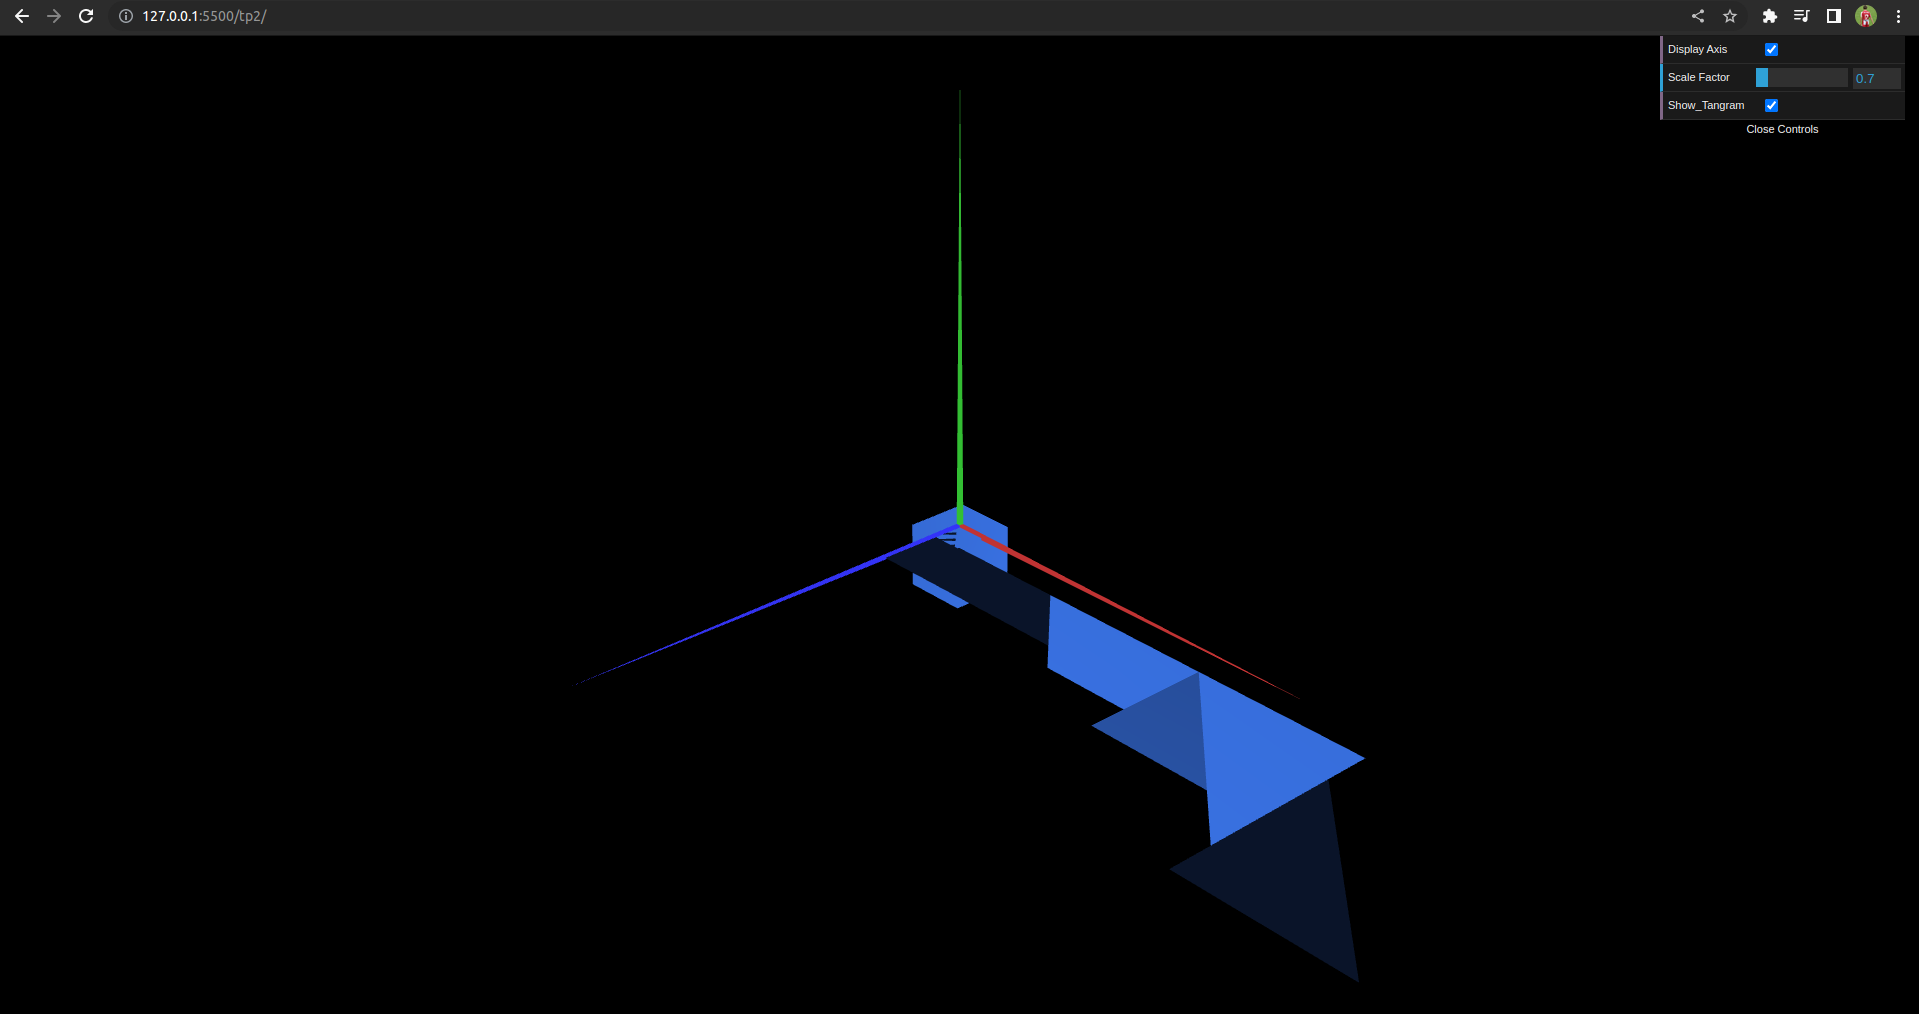
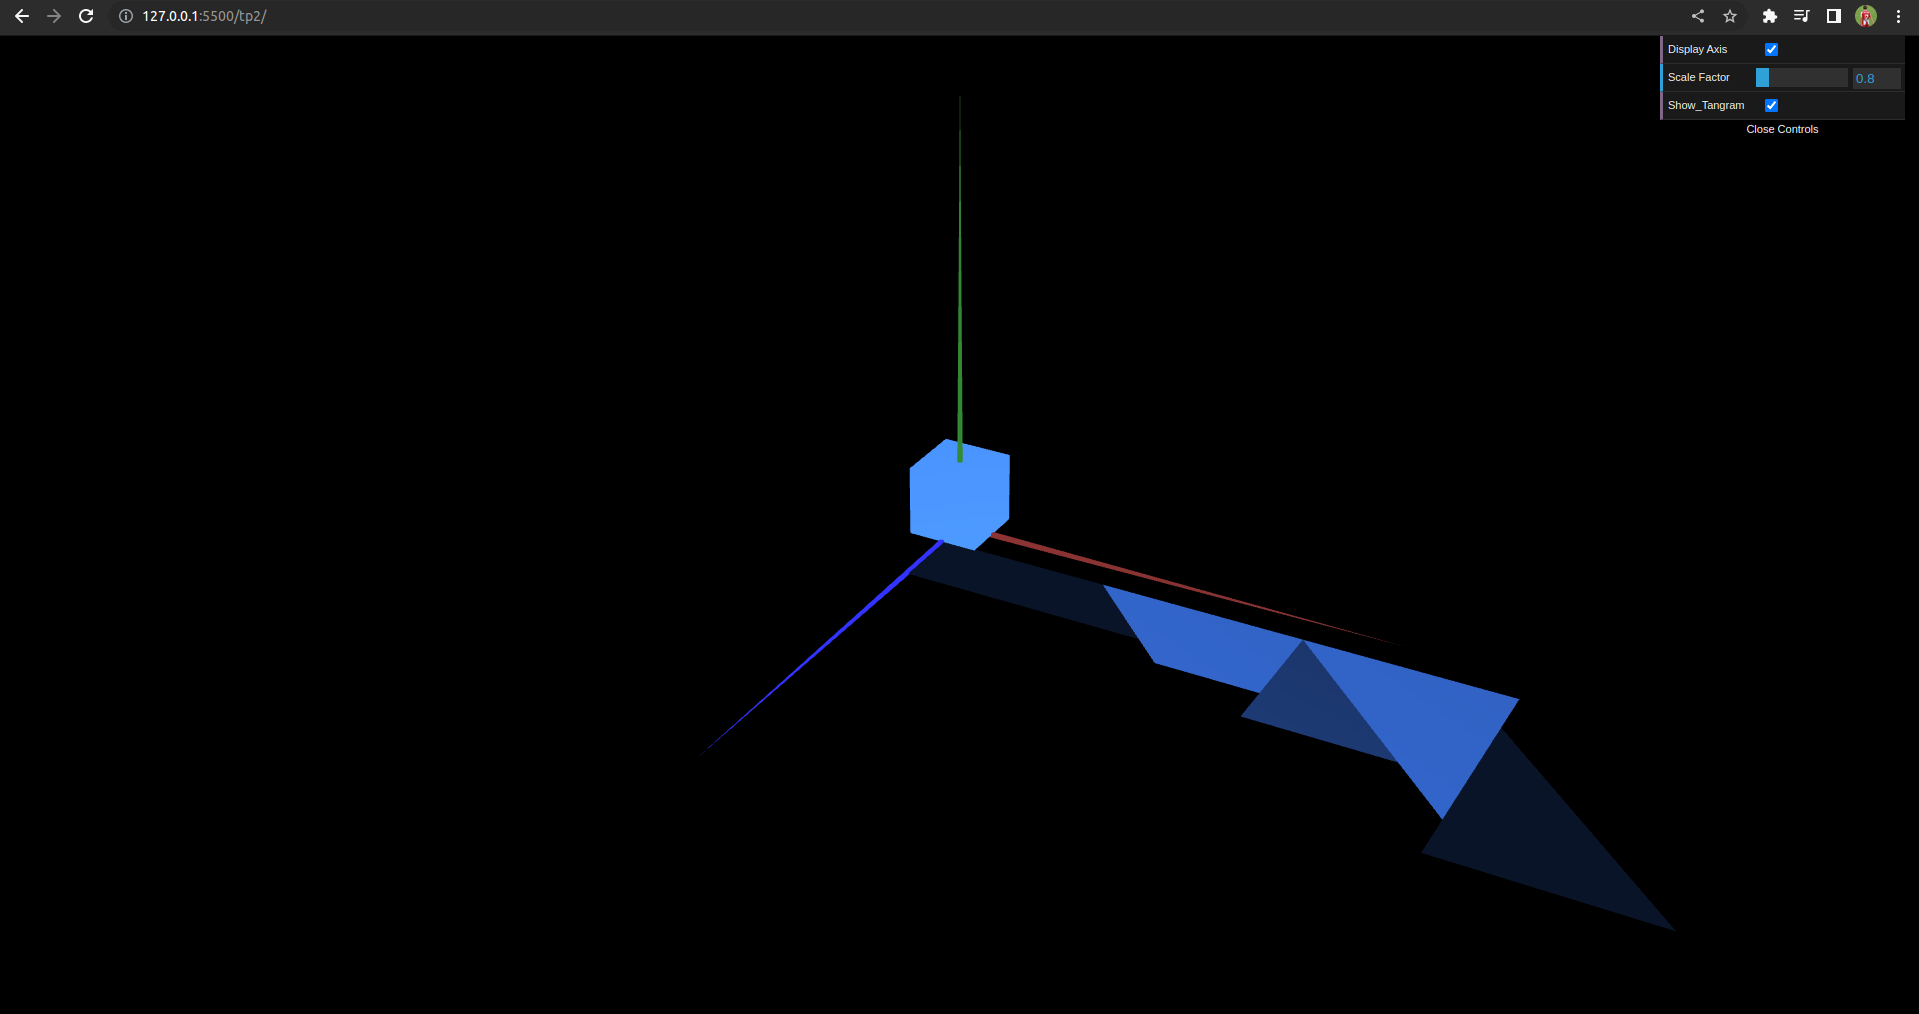
tp2-2

Changed region(s): [[0.3997, 0.3974, 0.8916, 0.9783]]

diff --git a/tp2/MyScene.js b/tp2/MyScene.js
@@ -90,14 +90,31 @@ export class MyScene extends CGFscene {
       1.0,
     ];
 
+    const SQRT2 = Math.sqrt(2)
+    const PI = Math.PI
+
     this.multMatrix(sca);
 
     // ---- BEGIN Primitive drawing section
 
+    this.pushMatrix()
+
+    this.translate(2*SQRT2+1 + SQRT2/2, 0, SQRT2+SQRT2/3)
+    this.scale(1, 1, 1);
+    this.rotate(-PI/2, 1, 0, 0);
+
     if (this.showMyTangram) this.tangram.display()
 
-    //this.unitCube.display()
+    this.popMatrix()
+
+    this.pushMatrix()
+
+    this.translate(0, 0.5, 0)
+
+    this.unitCube.display()
     //this.unitCubeQuad.display()
+
+    this.popMatrix()
 
 
     // ---- END Primitive drawing section
